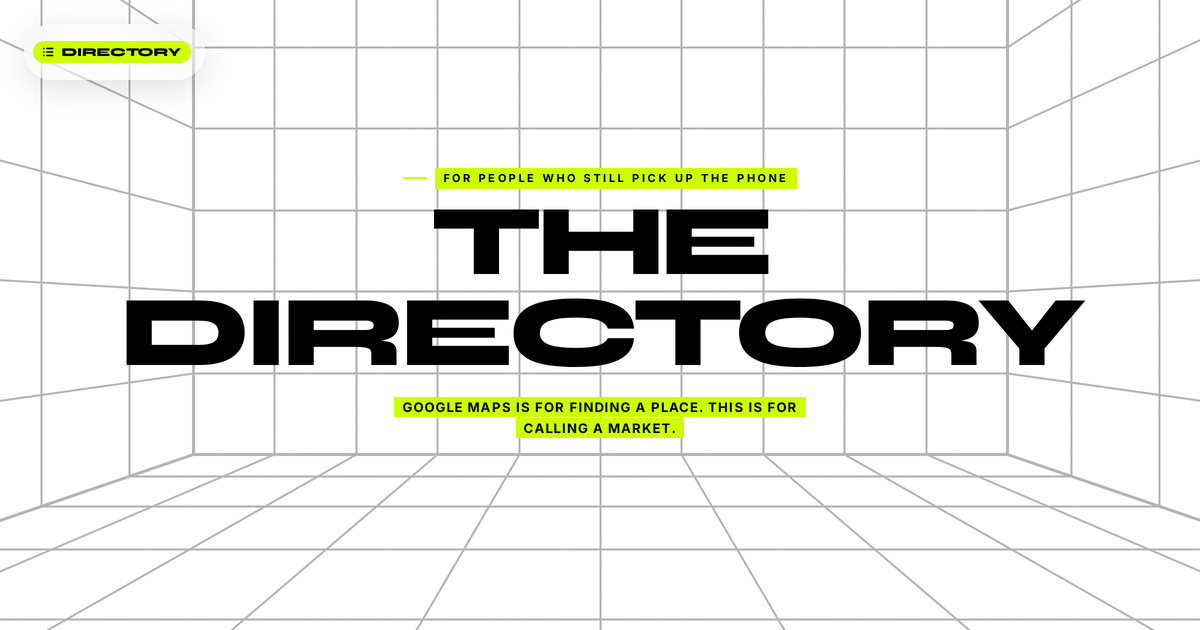
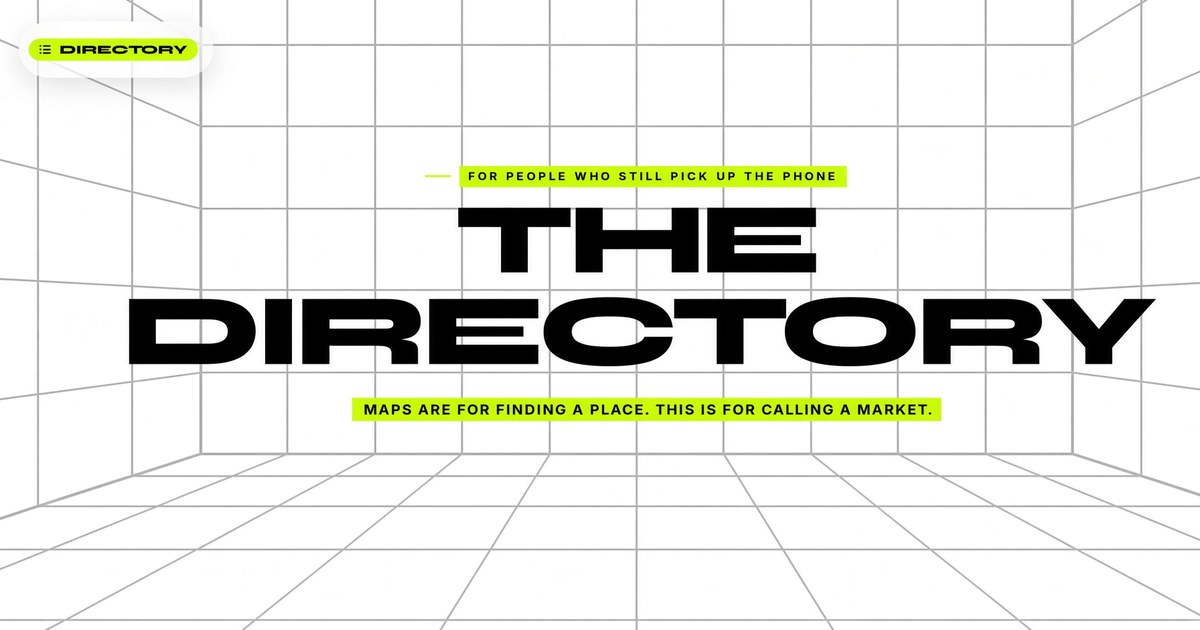
Drop Google from the public copy.
Hero, sales page, and share card now talk maps and calling, not Google Maps.
Listing links open OpenStreetMap.

diff --git a/api/lib/places.ts b/api/lib/places.ts
@@ -142,7 +142,7 @@ function slugify(value: string): string {
 
 function mapsSearchUrl(name: string, address?: string): string {
   const query = [name, address].filter(Boolean).join(' ');
-  return `https://www.google.com/maps/search/?api=1&query=${encodeURIComponent(query)}`;
+  return `https://www.openstreetmap.org/search?query=${encodeURIComponent(query)}`;
 }
 
 function parseFormattedAddress(

diff --git a/README.md b/README.md
@@ -42,7 +42,8 @@ Bookmark controls sit on cards and listing pages. `/saved/` is the Saved view.
 Required in production:
 
 - `JWT_SECRET` — signing key for the session cookie. Generate a long random string.
-- `GOOGLE_PLACES_API_KEY` — optional but recommended. When set, city search pulls name, address, phone, website, hours, rating, and photos straight from Google Business profiles. Without it, the index still loads live map listings for any Canada / US city.
+
+Listings come from OpenStreetMap. No Google key.
 
 One of these pairs (reuse the website KV if it is already provisioned):
 
